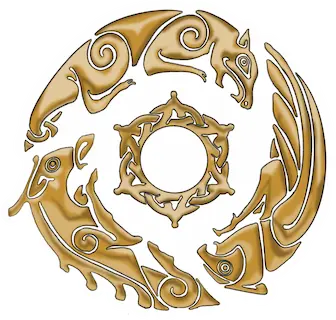
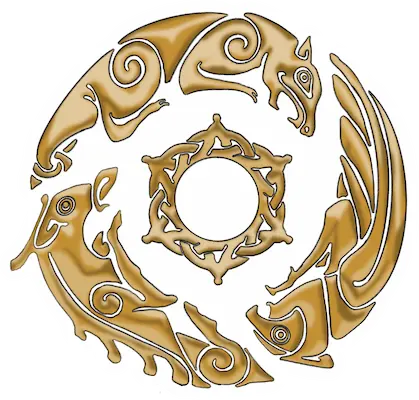
chore: ey

diff --git a/src/components/views/landing/CoffeeCups.tsx b/src/components/views/landing/CoffeeCups.tsx
@@ -28,11 +28,11 @@ export default function CoffeeCups({ className }: CoffeeCupsProps) {
             <Image
               src="/mugs/dev.webp"
               alt="Mug"
-              width={600}
-              height={601}
+              width={399}
+              height={400}
               unoptimized
               className={cn(
-                'sticker-shadow aspect-[600/601] w-55 select-none lg:w-60'
+                'sticker-shadow aspect-[399/400] w-55 select-none lg:w-60'
               )}
             />
           </Link>

diff --git a/src/components/views/landing/game-playing.tsx b/src/components/views/landing/game-playing.tsx
@@ -31,11 +31,11 @@ export default function GamePlaying({ game, className }: GamePlayingProps) {
             <Image
               src={stickerSrc}
               alt={game.title}
-              width={600}
-              height={572}
+              width={419}
+              height={400}
               unoptimized
               className={cn(
-                'sticker-shadow aspect-[600/572] w-55 select-none lg:w-60'
+                'sticker-shadow aspect-[419/400] w-55 select-none lg:w-60'
               )}
             />
           </Link>

diff --git a/src/components/views/landing/lego-pieces.tsx b/src/components/views/landing/lego-pieces.tsx
@@ -32,10 +32,10 @@ export default function LegoPieces({ containerClassName }: LegoPiecesProps) {
             <Image
               src="/legos/vader.webp"
               alt="Lego"
-              width={600}
-              height={1007}
+              width={238}
+              height={400}
               unoptimized
-              className="sticker-shadow aspect-[600/1007] w-44 select-none"
+              className="sticker-shadow aspect-[238/400] w-44 select-none"
             />
           </Link>
         </div>